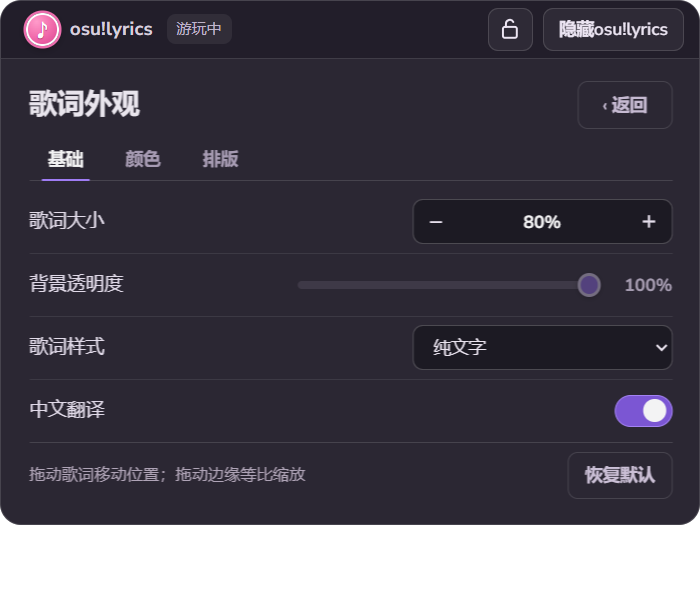
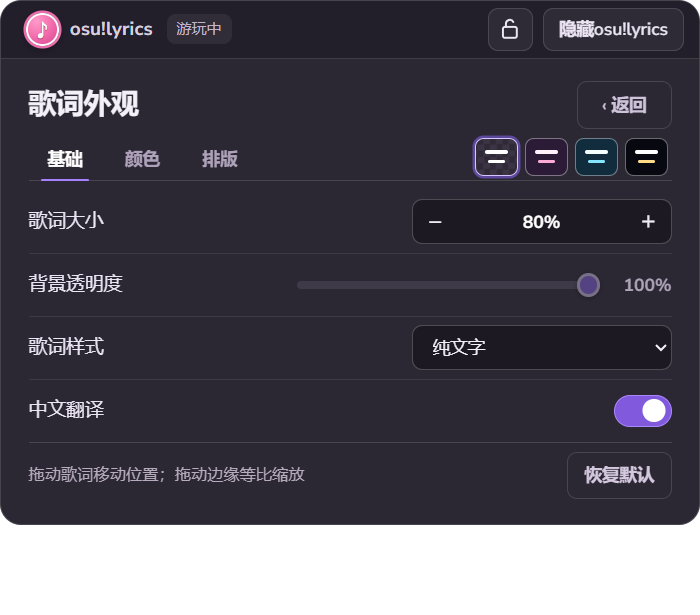
Add compact appearance preset swatches

diff --git a/src/ui/combined.css b/src/ui/combined.css
@@ -191,10 +191,18 @@ button:focus-visible, input:focus-visible, select:focus-visible { outline: 2px s
 .back-button { min-width: 76px; padding: 0 12px; background: transparent; color: #cfc3db; }
 .style-view .view-heading { height: 38px; min-height: 38px; }
 .appearance-tabs { height: 34px; min-height: 34px; display: flex; gap: 4px; margin-top: 8px; border-bottom: 1px solid var(--border); }
-.appearance-tabs button { position: relative; height: 33px; padding: 0 15px; border: 0; background: transparent; color: #aea2ba; font-size: 14px; font-weight: 600; }
-.appearance-tabs button:hover { color: #f4f0f8; }
-.appearance-tabs button[aria-selected="true"] { color: #fff; }
-.appearance-tabs button[aria-selected="true"]::after { content: ""; position: absolute; bottom: -1px; left: 10px; right: 10px; height: 2px; border-radius: 2px; background: var(--accent); }
+.appearance-tabs > button { position: relative; height: 33px; padding: 0 15px; border: 0; background: transparent; color: #aea2ba; font-size: 14px; font-weight: 600; }
+.appearance-tabs > button:hover { color: #f4f0f8; }
+.appearance-tabs > button[aria-selected="true"] { color: #fff; }
+.appearance-tabs > button[aria-selected="true"]::after { content: ""; position: absolute; bottom: -1px; left: 10px; right: 10px; height: 2px; border-radius: 2px; background: var(--accent); }
+.preset-strip { display: flex; align-items: center; gap: 6px; margin-left: auto; padding: 0 3px 4px 4px; }
+.preset-swatch { position: relative; width: 34px; height: 30px; flex: none; padding: 0; border: 1px solid #ffffff64; border-radius: 7px; background: var(--preset-background); cursor: pointer; }
+.preset-swatch.plain { background: repeating-conic-gradient(#3b3444 0 25%, #302a38 0 50%) 50% / 10px 10px; }
+.preset-swatch::before, .preset-swatch::after { content: ""; position: absolute; left: 7px; border-radius: 3px; }
+.preset-swatch::before { top: 9px; width: 18px; height: 3px; background: var(--preset-original); }
+.preset-swatch::after { top: 17px; left: 9px; width: 14px; height: 2px; background: var(--preset-translation); }
+.preset-swatch:hover { border-color: #e3d5ff; transform: translateY(-1px); }
+.preset-swatch.selected { border-color: #d7c5ff; box-shadow: 0 0 0 2px #8c66ff85; }
 .settings-list { margin-top: 14px; }
 .style-view .settings-list { min-height: 0; flex: 1; display: flex; flex-direction: column; margin-top: 8px; }
 .setting-row { min-height: 54px; display: grid; grid-template-columns: minmax(148px, 1fr) minmax(270px, 300px); align-items: center; gap: 12px; border-bottom: 1px solid #ffffff16; }
@@ -265,7 +273,11 @@ button:focus-visible, input:focus-visible, select:focus-visible { outline: 2px s
 .panel-surface.compact .view-heading h1 { font-size: 20px; }
 .panel-surface.compact .style-view .view-heading { height: 34px; min-height: 34px; }
 .panel-surface.compact .appearance-tabs { height: 32px; min-height: 32px; margin-top: 6px; }
-.panel-surface.compact .appearance-tabs button { height: 31px; }
+.panel-surface.compact .appearance-tabs > button { height: 31px; }
+.panel-surface.compact .preset-strip { gap: 5px; }
+.panel-surface.compact .preset-swatch { width: 32px; height: 28px; }
+.panel-surface.compact .preset-swatch::before { left: 6px; top: 8px; }
+.panel-surface.compact .preset-swatch::after { left: 8px; top: 16px; }
 .panel-surface.compact .style-view .settings-list { margin-top: 6px; }
 .panel-surface.compact .style-view .setting-row { min-height: 42px; }
 .panel-surface.compact .style-footer { min-height: 42px; padding-top: 6px; }

diff --git a/src/ui/combined.js b/src/ui/combined.js
@@ -1,4 +1,5 @@
 const api = window.osuLyrics;
+const presetsApi = window.osuAppearancePresets;
 const $ = id => document.getElementById(id);
 let state = { connected: false, song: null, positionMs: 0, sampledAt: Date.now(), playing: false };
 let lyrics = { status: 'idle', lines: [], candidates: [], offsetMs: 0 };
@@ -216,6 +217,7 @@ function renderStyle() {
   $('fontStyleSelect').value = settings.fontStyle;
   $('textEffectSelect').value = settings.textEffect;
   $('alignmentSelect').value = settings.alignment;
+  renderPresetSelection();
   queueLyricMeasure();
 }
 
@@ -231,6 +233,34 @@ function setAppearanceTab(next) {
   for (const name of ['basic', 'colors', 'typography']) {
     $(`${name}Tab`).setAttribute('aria-selected', String(name === next));
     $(`${name}Settings`).hidden = name !== next;
+  }
+}
+
+function buildPresetSwatches() {
+  const strip = $('presetStrip');
+  for (const preset of presetsApi.PRESETS) {
+    const button = document.createElement('button');
+    button.type = 'button';
+    button.className = 'preset-swatch';
+    button.dataset.preset = preset.id;
+    button.setAttribute('aria-pressed', 'false');
+    button.setAttribute('aria-label', `${preset.name}：${preset.hint}`);
+    button.title = `${preset.name} · ${preset.hint}`;
+    button.classList.toggle('plain', !!preset.preview.plain);
+    button.style.setProperty('--preset-original', preset.preview.original);
+    button.style.setProperty('--preset-translation', preset.preview.translation);
+    button.style.setProperty('--preset-background', preset.preview.background);
+    button.addEventListener('click', () => api.updateOverlaySettings(presetsApi.presetPatch(preset.id)));
+    strip.appendChild(button);
+  }
+}
+
+function renderPresetSelection() {
+  const selected = presetsApi.matchingPreset(settings);
+  for (const button of $('presetStrip').children) {
+    const active = button.dataset.preset === selected;
+    button.classList.toggle('selected', active);
+    button.setAttribute('aria-pressed', String(active));
   }
 }
 
@@ -497,6 +527,7 @@ api.onOverlayPresence(next => { shown = next.shown; if (!shown) setEditing(false
 api.onPanelState(next => { panelOpen = next.open; panelSide = next.side; if (!panelOpen) { setView('normal'); setEditing(false); } renderCollapsedToggle(); });
 api.onLayout(applyLayout);
 
+buildPresetSwatches();
 api.initial().then(initial => {
   state = initial.state;
   lyrics = initial.lyrics;

diff --git a/src/appearance-presets.js b/src/appearance-presets.js
@@ -1,0 +1,38 @@
+(() => {
+  const VISUAL_KEYS = ['theme', 'opacity', 'originalColor', 'translationColor', 'backgroundColor', 'fontStyle', 'textEffect', 'alignment'];
+  const PRESETS = Object.freeze([
+    {
+      id: 'clear', name: 'osu! 清爽', hint: '纯文字',
+      visual: { theme: 'plain', opacity: 0, originalColor: null, translationColor: null, backgroundColor: null, fontStyle: 'osu', textEffect: 'auto', alignment: 'center' },
+      preview: { original: '#ffffff', translation: '#ffffff', background: '#302a38', plain: true },
+    },
+    {
+      id: 'sakura', name: '夜樱', hint: '柔雾 · 粉紫',
+      visual: { theme: 'glass', opacity: 54, originalColor: '#fff2fa', translationColor: '#ffabd4', backgroundColor: '#2b1b37', fontStyle: 'osu', textEffect: 'shadow', alignment: 'center' },
+      preview: { original: '#fff2fa', translation: '#ffabd4', background: '#2b1b37' },
+    },
+    {
+      id: 'aqua', name: '冰蓝', hint: '柔雾 · 青蓝',
+      visual: { theme: 'glass', opacity: 48, originalColor: '#f4ffff', translationColor: '#84e5ff', backgroundColor: '#112c3d', fontStyle: 'clean', textEffect: 'shadow', alignment: 'center' },
+      preview: { original: '#f4ffff', translation: '#84e5ff', background: '#112c3d' },
+    },
+    {
+      id: 'focus', name: '聚焦', hint: '高对比',
+      visual: { theme: 'contrast', opacity: 75, originalColor: '#ffffff', translationColor: '#ffdb88', backgroundColor: '#080810', fontStyle: 'clean', textEffect: 'outline', alignment: 'center' },
+      preview: { original: '#ffffff', translation: '#ffdb88', background: '#080810' },
+    },
+  ]);
+
+  function presetPatch(id) {
+    const preset = PRESETS.find(item => item.id === id);
+    return preset ? { ...preset.visual } : null;
+  }
+
+  function matchingPreset(settings) {
+    return PRESETS.find(preset => VISUAL_KEYS.every(key => settings?.[key] === preset.visual[key]))?.id || null;
+  }
+
+  const api = { PRESETS, presetPatch, matchingPreset };
+  if (typeof module !== 'undefined') module.exports = api;
+  if (typeof window !== 'undefined') window.osuAppearancePresets = api;
+})();

diff --git a/src/ui/combined.html b/src/ui/combined.html
@@ -38,6 +38,7 @@
           <button id="basicTab" type="button" aria-selected="true">基础</button>
           <button id="colorsTab" type="button" aria-selected="false">颜色</button>
           <button id="typographyTab" type="button" aria-selected="false">排版</button>
+          <span id="presetStrip" class="preset-strip" role="group" aria-label="快速样式"></span>
         </nav>
         <div id="basicSettings" class="settings-list">
           <div class="setting-row"><label>歌词大小</label><div class="setting-control"><div class="stepper large"><button id="scaleBack" aria-label="缩小歌词">−</button><output id="scaleValue">100%</output><button id="scaleForward" aria-label="放大歌词">＋</button></div></div></div>
@@ -82,6 +83,7 @@
   </div>
   <button id="collapsedToggle" class="collapsed-toggle" type="button" title="展开osu!lyrics" aria-label="展开osu!lyrics" hidden>♪</button>
   <script src="../playback-clock.js"></script>
+  <script src="../appearance-presets.js"></script>
   <script src="combined.js"></script>
 </body>
 </html>

diff --git a/README.md b/README.md
@@ -6,7 +6,7 @@
 
 优先双击 `dist/osu-lyrics-0.4.6-portable.exe`；它不需要另装 Node.js。源码方式可双击 [启动歌词工具.cmd](启动歌词工具.cmd)。首次运行时如尚未安装 tosu，点击“安装”，工具会下载已固定版本的 tosu 并校验 SHA-256。以后启动时会自动连接或启动已安装的 tosu。
 
-当前新增的粉色音符动画、界面排版和更多外观设置仍在源码开发阶段，暂未重新打包。要体验这些改动请运行 [启动歌词工具.cmd](启动歌词工具.cmd)；`dist` 中的 0.4.6 EXE 是上一次打包的版本。
+当前新增的粉色音符动画、界面排版、更多外观设置和快速模板仍在源码开发阶段，暂未重新打包。要体验这些改动请运行 [启动歌词工具.cmd](启动歌词工具.cmd)；`dist` 中的 0.4.6 EXE 是上一次打包的版本。
 
 此电脑已安装 Node.js，因此可以直接运行。也可以在项目目录执行 `npm install` 和 `npm start`。
 
@@ -19,6 +19,7 @@
 按 **Ctrl+Alt+Shift+L** 可完整隐藏／显示悬浮歌词。Windows 通知区域的音符图标右键菜单也有“隐藏osu!lyrics／显示osu!lyrics”“打开小窗口”和“退出”。隐藏 osu!lyrics 不会清除锁定状态或外观配置；需要退出整个工具时使用托盘菜单。
 
 “歌词外观”分为基础、颜色、排版三页：基础页调整大小、背景透明度、样式和中文翻译；颜色页可分别指定日文原文、中文译文和背景颜色；排版页可选字体风格、文字效果和对齐方式。每种颜色可单独恢复默认。透明度 100% 表示背景完全透明；纯文字样式默认没有背景或文字阴影，但可以主动选择文字效果。长句会换行并让歌词区域增高，不再在两侧显示省略号。首次展开时面板宽度随歌词变化，通常为 560–720 像素；之后可从边框单独调整。位置、颜色、排版、面板尺寸、锁定、显示和控制区展开状态保存在 `%APPDATA%\osu-lyrics-companion\windows.json`，重启后继续使用。两页的布局取舍与截图见[界面设计说明](docs/interface-design.md)。视觉参考了 osu!lazer 的[设置界面](https://osu.ppy.sh/home/changelog/lazer/2023.1229.0)及其[官方配色](https://github.com/ppy/osu/blob/master/osu.Game/Graphics/OsuColour.cs)。便携版附带开源的 Nunito Sans 字体；Torus 仅在用户系统已有时使用，未从游戏复制。
+外观页顶部还有四个横排色样按钮：osu! 清爽、夜樱、冰蓝、聚焦。点击后会同时应用对应的颜色、背景和文字效果，保留当前歌词大小、位置及中文开关；继续手动调整后就成为自定义外观。
 
 把 osu!lazer 设为无边框或窗口模式，歌词窗口会尽量保持置顶。独占全屏可能遮住外部窗口。歌词区域可点击，因此它覆盖的区域会接收鼠标点击；可以拖到不影响打图的位置。
 

diff --git a/docs/interface-design.md b/docs/interface-design.md
@@ -24,6 +24,7 @@
 - 进入歌词候选页后，如果曲目 key 改变，立即返回当前新歌的主界面；同一歌曲从选歌预览进入游玩不会触发返回。
 - 锁定与隐藏放在顶栏，外观入口贴近歌名；获取歌词与校时仍留在各自的内容位置。图标锁有选中状态，校时明确显示当前偏移以及减号提前、加号延后的意义。
 - 外观基础页保留大小、透明度、样式与翻译；新增颜色页分别处理原文、译文和背景，排版页处理字体风格、文字效果和对齐。每页仍共用标签左边界和控件右边界，面板尺寸不因切换而变化。操作提示降为辅助信息，恢复默认留在页脚。真实悬浮歌词就是即时预览，因此没有重复造一个预览卡片。
+- 三个分栏上方横排四个小色样，供一键套用清爽、夜樱、冰蓝、聚焦；不新增模板页。模板只组合颜色、背景、字体与文字效果，保留歌词大小、位置及翻译开关；手动修改后选中态消失，表示自定义。
 - 界面的“背景透明度”以用户所见为准：100% 表示完全透明；内部保存格式保持原有不透明度数值，因此升级不会改变已有外观。纯文字模式没有背景，滑块显示为不可操作状态。
 - 展开面板比旧版更高，会多占一部分游戏画面；收起后仍只显示歌词。这换来正常观看距离下可读的文字和舒适的点击区域。
 
